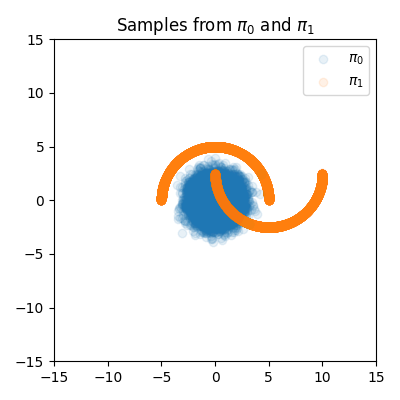
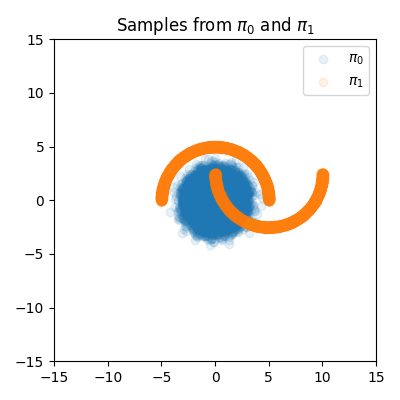
tried splines regression wit recflow but failed, the mse error for spline regression is higher than nn and tt , hence it is a failure

diff --git a/tutorial/recflow_models_experiment.py b/tutorial/recflow_models_experiment.py
@@ -36,16 +36,14 @@ import time
 import torch
 import numpy as np
 import torch.nn as nn
-from sklearn.datasets import make_swiss_roll, make_circles, make_blobs
+from sklearn.datasets import make_swiss_roll, make_circles, make_blobs, make_moons
 from sklearn.linear_model import Ridge
 from sklearn.metrics import mean_squared_error
 from sklearn.neural_network import MLPRegressor
 from sklearn.pipeline import make_pipeline
 from sklearn.preprocessing import SplineTransformer
-from torch.distributions import Normal, Categorical
 from torch.distributions import Distribution
 from torch.distributions.multivariate_normal import MultivariateNormal
-from torch.distributions.mixture_same_family import MixtureSameFamily
 import matplotlib.pyplot as plt
 from torch.nn import MSELoss
 from torch.optim import lr_scheduler
@@ -58,20 +56,31 @@ from hyperopt import hp, fmin, tpe, Trials, STATUS_OK
 from utils.utils import get_target_samples, filter_tensor
 from datetime import datetime
 
+
 # Set seed
-SEED = 42
-set_global_seed(SEED)
+# SEED = 42
+# set_global_seed(SEED)
 
 
 # random.seed(SEED)
 # np.random.seed(SEED)
 # torch.manual_seed(SEED)
 
+class DummyReg(torch.nn.Module):
+    def __init__(self, input_dim, output_dim, *args, **kwargs):
+        super().__init__(*args, **kwargs)
+        self.A = torch.nn.Parameter(
+            torch.distributions.Uniform(low=-0.1, high=0.1).sample(torch.Size([output_dim, input_dim])))
+
+    def forward(self, x):
+        y = torch.matmul(self.A, x.T)
+        return y.T
+
 
 @torch.no_grad()
 def draw_plot(recflow_model, z0, z1, N=None, **kwargs):
     print(f"Drawing plot for model of class : {type(recflow_model)}")
-    assert isinstance(recflow_model, (RectifiedFlowTT, RectifiedFlowNN, RectifiedFlowTensorBsplines))
+    assert isinstance(recflow_model, (RectifiedFlowTT, RectifiedFlowNN, RectifiedFlowRegBsplines))
     fig_title_part = ""
     if isinstance(recflow_model, RectifiedFlowTT):
         suffix = "tt"
@@ -79,8 +88,8 @@ def draw_plot(recflow_model, z0, z1, N=None, **kwargs):
     elif isinstance(recflow_model, RectifiedFlowNN):
         suffix = "nn"
         fig_title_part += f"model=nn-recflow"
-    elif isinstance(recflow_model, RectifiedFlowTensorBsplines):
-        suffix = "tb"
+    elif isinstance(recflow_model, RectifiedFlowRegBsplines):
+        suffix = "rb"
         fig_title_part += f"model=tensor-bsplines-recflow"
     else:
         raise ValueError(f"Unsupported recflow model type : {type(recflow_model)}")
@@ -158,7 +167,7 @@ def train_rectified_flow_nn(rectified_flow_nn, optimizer, pairs, batchsize, inne
         z_t, t, target = get_train_tuple(z0=z0, z1=z1)
 
         pred = rectified_flow_nn.model(z_t, t)
-        loss = loss_fn(pred, target) # both losses are the same
+        loss = loss_fn(pred, target)  # both losses are the same
         # loss = 0.5 * (target - pred).view(pred.shape[0], -1).pow(2).sum(dim=1)
         # loss = loss.mean()
         if si is None:
@@ -197,11 +206,13 @@ class MLP(nn.Module):
         return x
 
 
-class RectifiedFlowTensorBsplines:
-    def __init__(self, basis_dim, x_range, input_dim, out_dim, basis_degree):
-        assert len(x_range) == input_dim
-        self.tns_bsp_reg = TensorBSplinesRegressor(input_dim=input_dim, output_dim=out_dim, x_range=x_range,
-                                                   basis_dim=basis_dim, degree=basis_degree)
+class RectifiedFlowRegBsplines:
+    def __init__(self, input_dim, output_dim, sp):
+        # assert len(x_range) == input_dim
+        # self.tns_bsp_reg = TensorBSplinesRegressor(input_dim=input_dim, output_dim=out_dim, x_range=x_range,
+        #                                            basis_dim=basis_dim, degree=basis_degree)
+        self.model = DummyReg(input_dim, output_dim)
+        self.sp = sp
 
     # FIXME , repeated fn , need to make a base class for Recflow
     def sample_ode(self, z0: torch.Tensor, N: int):
@@ -220,60 +231,60 @@ class RectifiedFlowTensorBsplines:
     # FIXME , repeated fn , need to make a base class for Recflow
     def v(self, zt, t) -> torch.Tensor:
         zt_aug = torch.cat([zt, t], dim=1)
-        pred_vec = self.tns_bsp_reg(zt_aug)
+        X = self.sp.fit_transform(zt_aug.detach().numpy())
+        pred_vec = self.model(torch.tensor(X))
         return pred_vec
 
 
-def train_recflow_tensor_bsplines(recflow_model: RectifiedFlowTensorBsplines, X0: torch.Tensor, X1: torch.Tensor,
-                                  train_iterations: int, batch_size: int):
+def train_recflow_reg_bsplines(recflow_model: RectifiedFlowRegBsplines, X0: torch.Tensor, X1: torch.Tensor,
+                               train_iterations: int, batch_size: int):
     z_t, t, target = get_train_tuple(z0=X0, z1=X1)
     z_t_aug = torch.concat([z_t, t], dim=1)
     X = z_t_aug.detach().numpy()
     y = target.detach().numpy()
     ########## Splines Regression Quick Test #################
+    X_feat = recflow_model.sp.fit_transform(X)
 
-    model = make_pipeline(SplineTransformer(n_knots=4096, degree=3, knots="quantile"), Ridge(alpha=1e-3))
-    model.fit(X, y)
-    y_hat = model.predict(X)
-    mse_ = mean_squared_error(y_true=y, y_pred=y_hat)
-    print(mse_)
-
-    mlpreg = MLPRegressor(verbose=True)
-    mlpreg.fit(X, y)
-    y_hat = mlpreg.predict(X)
-    mse2_ = mean_squared_error(y_true=y, y_pred=y_hat)
-    print("finnnnn")
+    # model = make_pipeline(SplineTransformer(n_knots=128, degree=3, knots="quantile"), Ridge(alpha=1e-3))
+    # model.fit(X, y)
+    # y_hat = model.predict(X)
+    # mse_ = mean_squared_error(y_true=y, y_pred=y_hat)
+    # print(mse_)
+    #
+    # mlpreg = MLPRegressor(verbose=True)
+    # mlpreg.fit(X, y)
+    # y_hat = mlpreg.predict(X)
+    # mse2_ = mean_squared_error(y_true=y, y_pred=y_hat)
+    # print("finnnnn")
     ################################################
     loss_fn = torch.nn.MSELoss()
 
-    params = recflow_model.tns_bsp_reg.parameters()
+    params = recflow_model.model.parameters()
     optimizer = torch.optim.Adam(params=params, lr=0.1)
-    scheduler = lr_scheduler.ExponentialLR(optimizer, gamma=0.5)
+    #scheduler = lr_scheduler.ExponentialLR(optimizer, gamma=0.5)
 
     alpha = 0.1
     si = None
-    sch_itr = 10
-    itr2 = int(train_iterations / sch_itr)
-    for j in tqdm(range(sch_itr), desc="Scheduler iterations"):
-        for i in tqdm(range(itr2), desc=f"Training iterations "):
-            optimizer.zero_grad()
-            indices = torch.randperm(z_t_aug.shape[0])[:batch_size]
-            z_t_aug_batch = z_t_aug[indices]
-            target_batch = target[indices]
-            y_hat = recflow_model.tns_bsp_reg(z_t_aug_batch)
-            loss = loss_fn(y_hat, target_batch)
-            if si is None:
-                si = loss.item()
-            else:
-                si = alpha * loss.item() + (1 - alpha) * si
-            if i % 10 == 0:
-                print(f"si, i = {i} = {si}")
-            loss.backward()
-            optimizer.step()
-        before_lr = optimizer.param_groups[0]["lr"]
-        scheduler.step()
-        after_lr = optimizer.param_groups[0]["lr"]
-        print("Epoch %d: lr %.4f -> %.4f" % (j, before_lr, after_lr))
+    # for j in tqdm(range(sch_itr), desc="Scheduler iterations"):
+    for i in tqdm(range(train_iterations), desc=f"Training iterations "):
+        optimizer.zero_grad()
+        indices = torch.randperm(z_t_aug.shape[0])[:batch_size]
+        X_batch = torch.tensor(X_feat)[indices]
+        target_batch = target[indices]
+        y_hat = recflow_model.model(X_batch)
+        loss = loss_fn(y_hat, target_batch)
+        if si is None:
+            si = loss.item()
+        else:
+            si = alpha * loss.item() + (1 - alpha) * si
+        if i % 100 == 0:
+            print(f"si, i = {i} = {si}")
+        loss.backward()
+        optimizer.step()
+        # before_lr = optimizer.param_groups[0]["lr"]
+        # scheduler.step()
+        # after_lr = optimizer.param_groups[0]["lr"]
+        # print("Epoch %d: lr %.4f -> %.4f" % (j, before_lr, after_lr))
     print(f"Final EMA loss (si) over total # iter {train_iterations} = {si}")
     print("Finished training")
 
@@ -417,8 +428,126 @@ def tt_recflow_hopt(init_model: Distribution, hopt_max_evals: int, target_datase
     print(f"Opt loss = {trials.best_trial['result']['loss']}")
 
 
-def compare_recflow_regression_models():
-    pass
+def get_mlp_numel(mlp):
+    return np.sum([torch.numel(param) for param in mlp.parameters()])
+
+
+def train_mlp(X: torch.Tensor, t: torch.Tensor, Y: torch.Tensor, batch_size: int, max_iter: int):
+    N = X.shape[0]
+    N_train = int(0.8 * N)
+    X_train = X[:N_train, :]
+    X_test = X[N_train:, :]
+    Y_train = Y[:N_train, :]
+    Y_test = Y[N_train:, ]
+    t_train = t[:N_train, :]
+    t_test = t[N_train:, ]
+    loss_fn = torch.nn.MSELoss()
+    si = None
+
+    in_dim = X.shape[1]
+    mlp = MLP(in_dim, hidden_num=100)
+    optimizer = torch.optim.Adam(params=mlp.parameters(), lr=1e-3)
+    nel = get_mlp_numel(mlp)
+    print(f"nel mlp  = {nel}")
+    alpha = 0.1
+    for i in tqdm(range(max_iter + 1), desc="train mlp "):
+        optimizer.zero_grad()
+        indices = torch.randperm(N_train)[:batch_size]
+        X_batch = X_train[indices, :]
+        Y_batch = Y_train[indices, :]
+        t_batch = t_train[indices, :]
+        pred = mlp(X_batch, t_batch)
+        loss = loss_fn(pred, Y_batch)  # both losses are the same
+        # loss = 0.5 * (target - pred).view(pred.shape[0], -1).pow(2).sum(dim=1)
+        # loss = loss.mean()
+        if si is None:
+            si = loss.item()
+        else:
+            si = alpha * loss.item() + (1 - alpha) * si
+        if i % 100 == 0:
+            print(f"si for loss type {type(loss_fn)} @i = {i} => {si}")
+        loss.backward()
+        optimizer.step()
+
+    y_hat = mlp(X_test, t_test)
+    mse_ = loss_fn(y_hat, Y_test)
+    print(f"mlo mse test {mse_}")
+
+
+def train_splines_regression(X: torch.Tensor, t: torch.Tensor, Y: torch.Tensor, batch_size: int, max_iter: int):
+    # Poly and Splines Reg
+    loss_fn = MSELoss()
+    N = X.shape[0]
+    N_train = int(0.8 * N)
+    X_train = X[:N_train, :]
+    X_test = X[N_train:, :]
+    Y_train = torch.tensor(Y[:N_train, :])
+    Y_test = Y[N_train:, ]
+    t_train = t[:N_train, :]
+    t_test = t[N_train:, ]
+    X_train_aug = torch.concat([X_train, t_train], dim=1)
+    X_test_aug = torch.concat([X_test, t_test], dim=1)
+    feature_model: SplineTransformer = SplineTransformer(n_knots=4096, degree=3, knots='quantile', include_bias=True,
+                                                         extrapolation='linear')
+    u = feature_model.fit_transform(X_train_aug.detach().numpy())
+    dummy_reg = DummyReg(input_dim=u.shape[1], output_dim=2)
+    u = torch.tensor(feature_model.fit_transform(X_train_aug.detach().numpy()))
+    optimizer = torch.optim.Adam(dummy_reg.parameters(), lr=1e-1)
+    for j in tqdm(range(2000), desc="train dummy reg"):
+        optimizer.zero_grad()
+        indices = torch.randperm(N_train)[:batch_size]
+        X_batch = u[indices, :][:batch_size]
+        Y_batch = Y_train[indices, :][:batch_size]
+        y_hat = dummy_reg(X_batch)
+        lambda_ = 1e-3
+        l1 = loss_fn(y_hat, Y_batch)
+        l2 = lambda_ * torch.norm(dummy_reg.A)
+        loss = l1 + l2
+        if j % 100 == 0:
+            print(l1.item())
+
+        loss.backward()
+        optimizer.step()
+    print("train finished")
+    u_test = feature_model.fit_transform(X_test_aug.detach().numpy())
+    y_hat = dummy_reg(torch.tensor(u_test))
+    mse2_ = loss_fn(y_hat, Y_test)
+    sys.exit(-1)
+    # XX = X_train_aug.detach().numpy()
+    # xx_min = np.min(XX, axis=0)
+    # xx_max = np.max(XX, axis=0)
+    # kk = feature_model._get_base_knot_positions(X=XX, n_knots=512, knots="quantile")
+    # reg_model = Ridge(alpha=1e-3)
+    # model = make_pipeline(feature_model, reg_model, verbose=True)
+    # model.fit(X=X_train_aug.detach().numpy(), y=Y_train.detach().numpy())
+    # X_test_aug = torch.concat([X_test, t_test], dim=1)
+    # N_test = X_test_aug.shape[0]
+    # X_test_list = list(X_test_aug)
+    # out_of_range = 0
+    # # k = feature_model.knots
+    # # for j in tqdm(range(N_test), desc="test out of range"):
+    # #     try:
+    # #         yy = model.predict(X_test_list[j].reshape(1, -1))
+    # #     except ValueError as e:
+    # #         print(e)
+    # #         out_of_range += 1
+    # # print(f"out_of_range = {out_of_range}")
+    # y_hat = model.predict(X_test_aug.detach().numpy())
+    # mse_ = MSELoss()(torch.tensor(y_hat), Y_test)
+    # print("")
+
+
+def compare_recflow_regression_models(x0: torch.Tensor, x1: torch.Tensor):
+    z_t, t, target = get_train_tuple(z0=x0, z1=x1)
+    max_iter = 10000
+    batch_size = 1024
+    # z_t_aug = torch.concat((z_t, t), dim=1)
+    ########### MLP ############
+    train_mlp(X=z_t, t=t, Y=target, batch_size=batch_size, max_iter=max_iter)
+    # print("Finished train mlp")
+
+    ########### Splines Regression ##############
+    # train_splines_regression(X=z_t, t=t, Y=target, batch_size=batch_size, max_iter=max_iter)
 
 
 # Main
@@ -428,9 +557,9 @@ if __name__ == '__main__':
     VAR = 0.3
     DOT_SIZE = 4
     COMP = 3
-    n_samples = 20000
+    n_samples = 50000
     data_dim = 2
-    model_type = "nn"  # can be nn,tt,tb
+    model_type = "rb"  # can be nn,tt,tb
     # nn is neural network
     # tt is tensor train with legendre poly
     # tb tensor bsplines
@@ -439,7 +568,8 @@ if __name__ == '__main__':
     target_dataset_name = "moons"
     initial_model = MultivariateNormal(loc=torch.zeros(2), covariance_matrix=torch.eye(2))
     samples_0 = initial_model.sample(torch.Size([n_samples]))
-    samples_1 = get_target_samples(dataset_name=target_dataset_name, n_samples=n_samples)
+    # samples_1 = get_target_samples(dataset_name=target_dataset_name, n_samples=n_samples)
+    samples_1 = torch.tensor(make_moons(shuffle=True, noise=0.01, n_samples=n_samples, random_state=53)[0] * 5)
     plt.figure(figsize=(4, 4))
     plt.xlim(-M, M)
     plt.ylim(-M, M)
@@ -460,7 +590,8 @@ if __name__ == '__main__':
     x_pairs = torch.stack([x_0, x_1], dim=1)
 
     # Experimental / Debugging function to compare all possible RecFlow Regression Models
-
+    # compare_recflow_regression_models(x0=x_0, x1=x_1)
+    ############
     recflow_model = None
     if model_type == "nn":
         if do_hyperopt:
@@ -502,13 +633,17 @@ if __name__ == '__main__':
             #   calculate for the same drawn data
             print("tt recflow training finished , next step is to generate samples ")
             draw_plot(recflow_model, z0=x0_test, z1=samples_1.detach().clone(), N=2000, r=ranks, d=basis_degree)
-    elif model_type == "tb":
-        x_range = TensorBSplinesModel.get_data_range(samples_0)
-        x_range.append([0, 1])  # for time
-        recflow_model = RectifiedFlowTensorBsplines(basis_dim=50 + 1, out_dim=2, x_range=x_range, input_dim=3,
-                                                    basis_degree=2)
-        train_recflow_tensor_bsplines(recflow_model=recflow_model, X0=samples_0, X1=samples_1,
-                                      train_iterations=1000, batch_size=16)
+    elif model_type == "rb":
+        # x_range = TensorBSplinesModel.get_data_range(samples_0)
+        # x_range.append([0, 1])  # for time
+        degree = 3
+        nknots = 128
+        nfeat = 3
+        nfeatall = nfeat * (nknots + degree - 1)
+        sp = SplineTransformer(n_knots=nknots, degree=degree)
+        recflow_model = RectifiedFlowRegBsplines(input_dim=nfeatall, output_dim=2, sp=sp)
+        train_recflow_reg_bsplines(recflow_model=recflow_model, X0=samples_0, X1=samples_1,
+                                   train_iterations=1000, batch_size=1024)
         draw_plot(recflow_model, z0=x0_test, z1=samples_1.detach().clone(), N=2000)
         print(f"finished")
 
